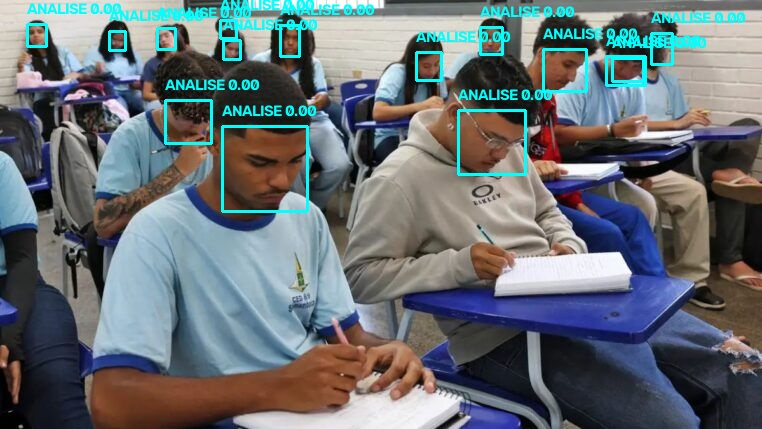
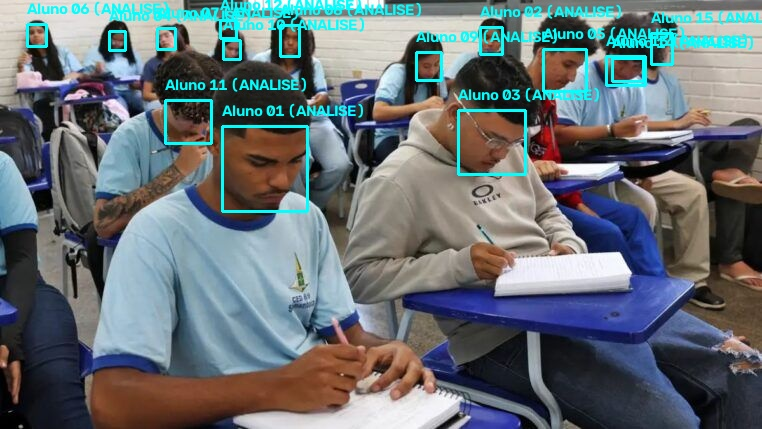
Niko_engine atualizada e testes
apenas usando a proporção da bounding box e a abertura da boca

diff --git a/Source/AI/src/niko_engine.py b/Source/AI/src/niko_engine.py
@@ -1,5 +1,4 @@
 import math
-
 import cv2
 import numpy as np
 from ultralytics import YOLO
@@ -15,37 +14,36 @@ class NikoEngine:
         self.clahe = cv2.createCLAHE(clipLimit=2.0, tileGridSize=(4, 4))
         print("[Niko Engine] Motor inicializado. (Modo: Coleta de Métricas)")
 
-    def extrair_abertura_ocular(self, imagem_clahe):
+    def extrair_estado_boca(self, imagem_clahe):
+        """
+        Analisa os 35% inferiores do rosto.
+        Retorna um valor de 0.0 a 1.0 representando a proporção de área escura.
+        Valores altos indicam boca aberta (bocejo/conversa).
+        """
         try:
             h = imagem_clahe.shape[0]
-            regiao_olhos = imagem_clahe[:int(h * 0.45), :]
-            _, thresh = cv2.threshold(regiao_olhos, 0, 255, cv2.THRESH_BINARY + cv2.THRESH_OTSU)
-            pixels_escuros = cv2.countNonZero(thresh)
-            total_pixels = regiao_olhos.shape[0] * regiao_olhos.shape[1]
-            razao = pixels_escuros / total_pixels if total_pixels > 0 else 0.5
-            return min(razao * 2, 1.0)
-        except:
-            return 0.5
+            # Recorta a região do queixo/boca
+            regiao_boca = imagem_clahe[int(h * 0.65):, :]
 
-    def extrair_direcao_olhar(self, imagem_clahe):
-        try:
-            regiao_olhos = imagem_clahe[:int(imagem_clahe.shape[0] * 0.45), :]
-            _, thresh = cv2.threshold(regiao_olhos, 0, 255, cv2.THRESH_BINARY + cv2.THRESH_OTSU)
-            contornos, _ = cv2.findContours(thresh, cv2.RETR_EXTERNAL, cv2.CHAIN_APPROX_SIMPLE)
-            if not contornos:
-                return 0.5
-            maior_contorno = max(contornos, key=cv2.contourArea)
-            M = cv2.moments(maior_contorno)
-            if M["m00"] == 0: return 0.5
-            cx = int(M["m10"] / M["m00"])
-            x_norm = cx / regiao_olhos.shape[1]
-            return max(0.0, 1.0 - abs(x_norm - 0.5) * 2.5)
-        except:
-            return 0.5
+            # Binariza a imagem
+            _, thresh = cv2.threshold(regiao_boca, 0, 255, cv2.THRESH_BINARY + cv2.THRESH_OTSU)
 
-    def calcular_indice_final(self, abertura, direcao):
-        # implementar depois
-        return NotImplementedError("Método calcular_indice_final ainda não implementado.")
+            # Conta a área escura gerada pela cavidade da boca aberta
+            pixels_claros = cv2.countNonZero(thresh)
+            total_pixels = regiao_boca.shape[0] * regiao_boca.shape[1]
+            pixels_escuros = total_pixels - pixels_claros
+
+            razao = pixels_escuros / total_pixels if total_pixels > 0 else 0.0
+            return min(razao * 2, 1.0) # Multiplica por 2 para normalizar a escala visualmente
+        except:
+            return 0.0
+
+    def calcular_indice_final(self, proporcao, boca):
+        """
+        Calcula o índice final de atenção com base nas métricas disponíveis.
+        """
+        
+        
 
     def processar_frame(self, img):
         if img is None: return None
@@ -64,11 +62,20 @@ class NikoEngine:
                 largura = x2 - x1
                 altura = y2 - y1
 
-                # Métrica 1: Proporção (Postura)
-                proporcao = largura / altura if altura > 0 else 1.0
-
                 # Recorte exato da Bounding Box
                 recorte = img[y1:y2, x1:x2]
+
+                if recorte.size == 0:
+                    continue
+
+                # Métrica 1: Proporção (Postura)
+                # Sempre calculada, pois só usa matemática básica das coordenadas
+                # Dicionario proporções:
+                    # validar depois com testes >_<
+                    # < 0.60 = Rosto de perfil (conversando para o lado)
+                    # 0.60 a 1.15 = Rosto normal (olhando para frente)
+                    # > 1.15 = Rosto achatado (deitado na mesa)
+                proporcao = largura / altura if altura > 0 else 1.0
 
                 if recorte.size == 0:
                     continue
@@ -76,12 +83,16 @@ class NikoEngine:
                 gray = cv2.cvtColor(recorte, cv2.COLOR_BGR2GRAY)
                 imagem_clahe = self.clahe.apply(gray)
 
-                # Métricas 2 e 3: Abertura e Direção (Olhos)
-                abertura = self.extrair_abertura_ocular(imagem_clahe)
-                direcao = self.extrair_direcao_olhar(imagem_clahe)
+                # Métrica 2: Estado da Boca
+                if cfg.USAR_METRICA_BOCA:
+                    boca = self.extrair_estado_boca(imagem_clahe)
+                else:
+                    boca = 0.0
+
+                # -----------------------------------
 
                 indice_final = 0.0  # Placeholder
-                #indice_final = self.calcular_indice_final(abertura, direcao)
+                #indice_final = self.calcular_indice_final(proporcao, boca)
 
                 # salva os detalhes para teste
                 detalhes_alunos.append({
@@ -90,8 +101,7 @@ class NikoEngine:
                     'indice': indice_final,
                     'status': 'ANALISE',
                     'cor': (255, 255, 0),     # Ciano para a caixa
-                    'abertura': abertura,
-                    'direcao': direcao,
+                    'boca': round(boca, 2),
                     'proporcao': round(proporcao, 2)
                 })
 

diff --git a/Source/AI/src/niko_test.py b/Source/AI/src/niko_test.py
@@ -23,7 +23,8 @@ def testar_imagem(caminho_imagem):
     img_indices = img.copy()
     img_dados = img.copy()
 
-    for aluno in resultado['detalhes_alunos']:
+    # Usando enumerate(..., start=1) para gerar o ID do aluno igual ao do relatório .txt
+    for i, aluno in enumerate(resultado['detalhes_alunos'], start=1):
         x1, y1, x2, y2 = aluno['bbox']
         cor = aluno['cor']
 
@@ -31,32 +32,47 @@ def testar_imagem(caminho_imagem):
         cv2.rectangle(img_indices, (x1, y1), (x2, y2), cor, 2)
         cv2.rectangle(img_dados, (x1, y1), (x2, y2), cor, 2)
 
-        # indices e status
-        texto_indice = f"{aluno['status']} {aluno['indice']:.2f}"
+        # Na imagem V1 (Índices), colocamos o Número do Aluno + Status
+        texto_indice = f"Aluno {i:02d} ({aluno['status']})"
         cv2.putText(img_indices, texto_indice, (x1, y1 - 10), cv2.FONT_HERSHEY_SIMPLEX, 0.5, cor, 2)
 
-        # Dados extraidos
-        # Mostra a Abertura Ocular (Ab), Direção (D) e a Proporção da Bbox (PR)
-        texto_dados = f"Ab:{aluno['abertura']:.2f} D:{aluno['direcao']:.2f} PR:{aluno['proporcao']:.2f}"
-
-        cv2.putText(img_dados, texto_dados, (x1, y1 - 10), cv2.FONT_HERSHEY_SIMPLEX, 0.5, cor, 2)
-
-    # Escreve a média global no canto de ambas as imagens
-    #texto_media = f"Media Turma: {resultado['media_atencao']:.2f}"
-    #cv2.rectangle(img_indices, (10, 10), (350, 50), (0, 0, 0), -1)
-    #cv2.putText(img_indices, texto_media, (20, 40), cv2.FONT_HERSHEY_SIMPLEX, 1, (255, 255, 255), 2)
-
-    #cv2.rectangle(img_dados, (10, 10), (350, 50), (0, 0, 0), -1)
-    #cv2.putText(img_dados, texto_media, (20, 40), cv2.FONT_HERSHEY_SIMPLEX, 1, (255, 255, 255), 2)
+        # Na imagem V2 (Dados Brutos), colocamos APENAS o Número do Aluno para limpar a imagem
+        texto_dados = f"Aluno {i:02d}"
+        cv2.putText(img_dados, texto_dados, (x1, y1 - 10), cv2.FONT_HERSHEY_SIMPLEX, 0.6, cor, 2)
 
     os.makedirs("results", exist_ok=True)
 
     nome_ficheiro = os.path.basename(caminho_imagem).split('.')[0]
     caminho_v1 = f"results/resultado_{nome_ficheiro}_V1_Indices.jpg"
     caminho_v2 = f"results/resultado_{nome_ficheiro}_V2_DadosBrutos.jpg"
+    caminho_txt = f"results/resultado_{nome_ficheiro}_Relatorio.txt"
 
     cv2.imwrite(caminho_v1, img_indices)
     cv2.imwrite(caminho_v2, img_dados)
+
+    # --- Geração do Relatório em .txt ---
+    with open(caminho_txt, "w", encoding="utf-8") as arquivo_txt:
+        arquivo_txt.write("=========================================\n")
+        arquivo_txt.write(f"RELATÓRIO DE ANÁLISE - NIKO ENGINE\n")
+        arquivo_txt.write("=========================================\n")
+        arquivo_txt.write(f"Imagem analisada: {caminho_imagem}\n")
+        arquivo_txt.write(f"Tempo de processamento: {fim - inicio:.2f} segundos\n\n")
+
+        arquivo_txt.write("[RESUMO DA TURMA]\n")
+        arquivo_txt.write(f"Média de Atenção: {resultado['media_atencao']}\n")
+        arquivo_txt.write(f"Total de Alunos:  {resultado['total_alunos']}\n")
+        arquivo_txt.write(f"Focados:          {resultado['focados']}\n")
+        arquivo_txt.write(f"Distraídos:       {resultado['distraidos']}\n\n")
+
+        arquivo_txt.write("[MÉTRICAS DETALHADAS POR ALUNO]\n")
+        for i, aluno in enumerate(resultado['detalhes_alunos'], start=1):
+            bbox = aluno['bbox']
+            arquivo_txt.write(
+                f"Aluno {i:02d} | BBox: ({bbox[0]:03d}, {bbox[1]:03d}, {bbox[2]:03d}, {bbox[3]:03d}) | "
+                f"PR (Postura): {aluno['proporcao']:.2f} | "
+                f"B (Boca): {aluno['boca']:.2f} | "
+                f"Status: {aluno['status']}\n"
+            )
 
     # Exibe os resultados no terminal
     print(f" Tempo de processamento: {fim - inicio:.2f} segundos")
@@ -65,6 +81,7 @@ def testar_imagem(caminho_imagem):
     print(f"   • Total de Alunos:  {resultado['total_alunos']} ({resultado['focados']} Focados / {resultado['distraidos']} Distraídos)")
     print(f"   -> {caminho_v1}")
     print(f"   -> {caminho_v2}")
+    print(f"   -> {caminho_txt}")
 
 def testar_apenas_yolo(caminho_imagem):
     img = cv2.imread(caminho_imagem)
@@ -90,11 +107,8 @@ def testar_apenas_yolo(caminho_imagem):
             cv2.putText(img_yolo, f"{confianca:.2f}", (x1, y1 - 10), cv2.FONT_HERSHEY_SIMPLEX, 0.5, (255, 0, 0), 2)
 
             total_rostos += 1
-
-    # Garante que a pasta results existe antes de salvar
     os.makedirs("results", exist_ok=True)
 
-    # Salva o arquivo no disco
     nome_ficheiro = os.path.basename(caminho_imagem).split('.')[0]
     caminho_v3 = f"results/resultado_{nome_ficheiro}_V3_ApenasYOLO.jpg"
     cv2.imwrite(caminho_v3, img_yolo)

diff --git a/Source/AI/src/niko_config.py b/Source/AI/src/niko_config.py
@@ -1,26 +1,30 @@
-# ========================================================================
-# caminhos e modelo YOLO
-# ========================================================================
+# ==========================================
+# 1. MODELO YOLOv8 E DETECÇÃO
+# ==========================================
 YOLO_PATH = 'models/yolov8_nano_foca_v3_800_50e/weights/best.pt'
+YOLO_CONFIDENCE = 0.30 # Ajustado com base no pico do gráfico F1-Score!
 
-# ========================================================================
-# Parâmetros de detecção de rosto
-# ========================================================================
-YOLO_CONFIDENCE = 0.4          # Confiança mínima para detectar um rosto
-
-# Limites de Proporção da Bounding Box (Largura / Altura)
-# Um rosto frontal e atento costuma ter proporção entre 0.7 e 0.9.
+# ==========================================
+# 2. LIMITES GEOMÉTRICOS E FACIAIS (AS NOVAS MÉTRICAS MACRO)
+# ==========================================
+# Proporção da Bounding Box (Largura / Altura)
 PROPORCAO_MIN_PERFIL = 0.60  # Abaixo disso = Rosto de perfil (conversando para o lado)
 PROPORCAO_MAX_DEITADO = 1.15 # Acima disso = Rosto achatado (deitado na mesa)
 
-# ========================================================================
-# Avaliação da análise
-# =======================================================================
+# Detecção de Boca Aberta (Bocejo ou Conversa)
+LIMITE_BOCA_ABERTA = 0.65    # Acima disso = Área escura muito grande na região inferior do rosto
 
-# Pesos na composição do Índice Final (A soma deve ser 1.0)
-PESO_ABERTURA_OCULAR = 0.60
-PESO_DIRECAO_OLHAR = 0.40
+# ==========================================
+# 3. PESOS E AVALIAÇÃO DE ATENÇÃO
+# ==========================================
+# Pesos Históricos (Zerados devido à limitação física da câmera escolar - Ver TCC Cap. X)
+PESO_ABERTURA_OCULAR = 0.00
+PESO_DIRECAO_OLHAR = 0.00
 
-# Limiares de Decisão das Notas (De 0.0 a 1.0)
+# Limiares de Decisão (De 0.0 a 1.0) - Serão usados quando reativarmos o cálculo
 LIMIAR_FOCADO_BAIXA = 0.70
 LIMIAR_PARCIAL_BAIXA = 0.45
+
+# INTERRUPTORES DE MÉTRICAS (Feature Flags para Estudo de Ablação)
+USAR_METRICA_POSTURA = True  # Recomendado manter True, pois é a base
+USAR_METRICA_BOCA = True
